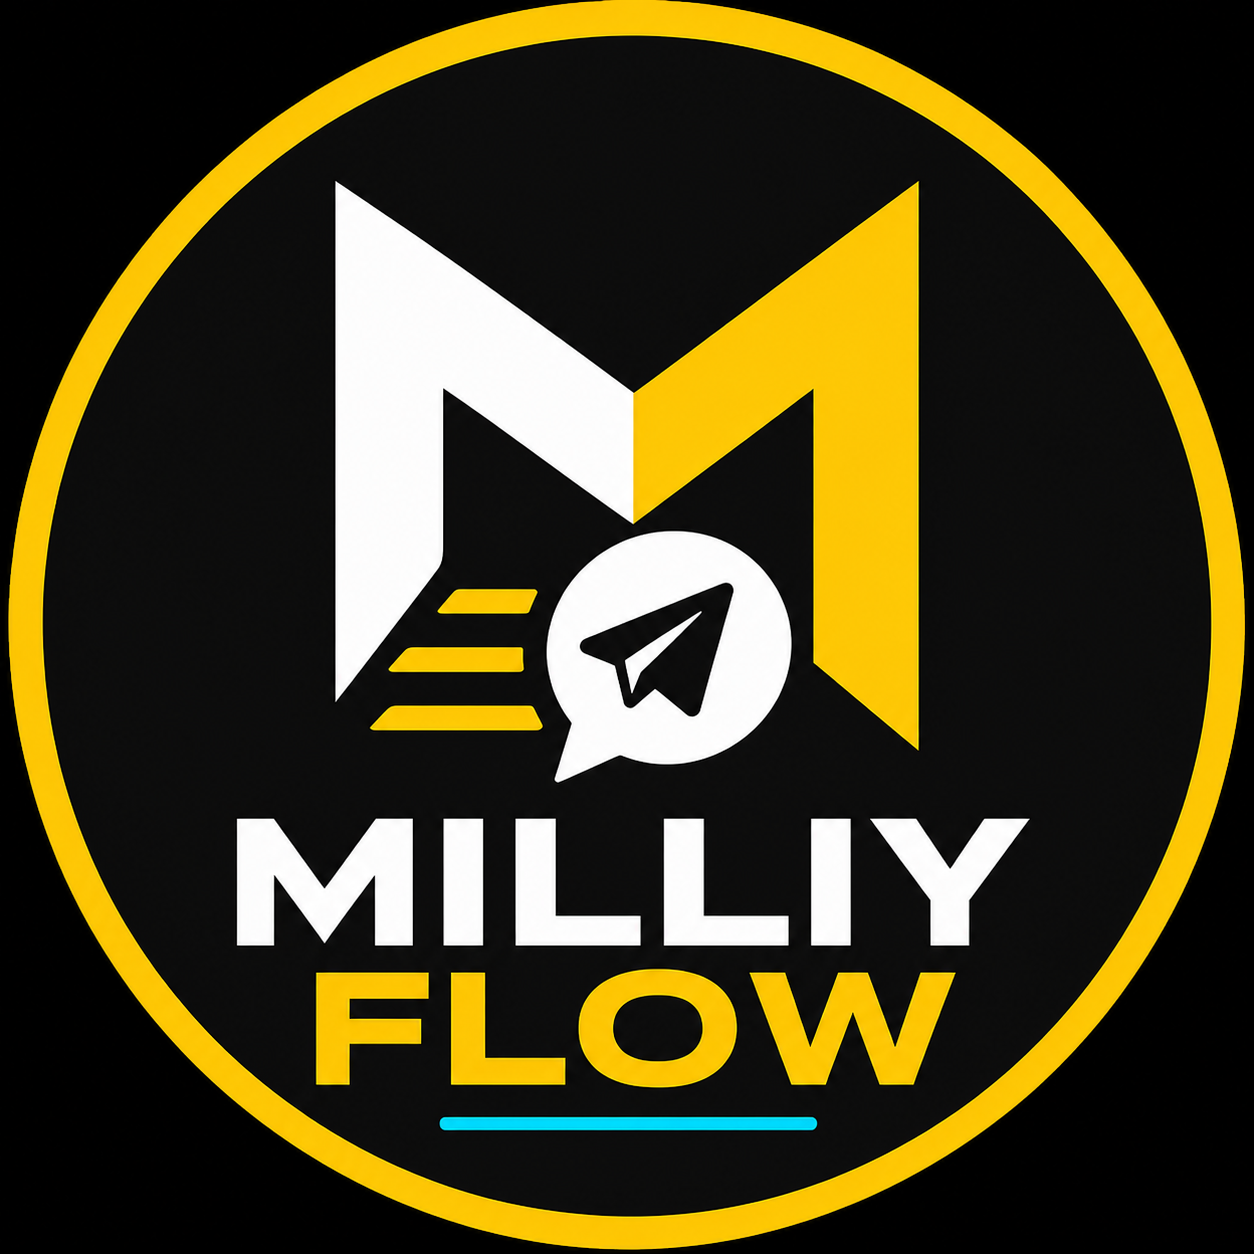
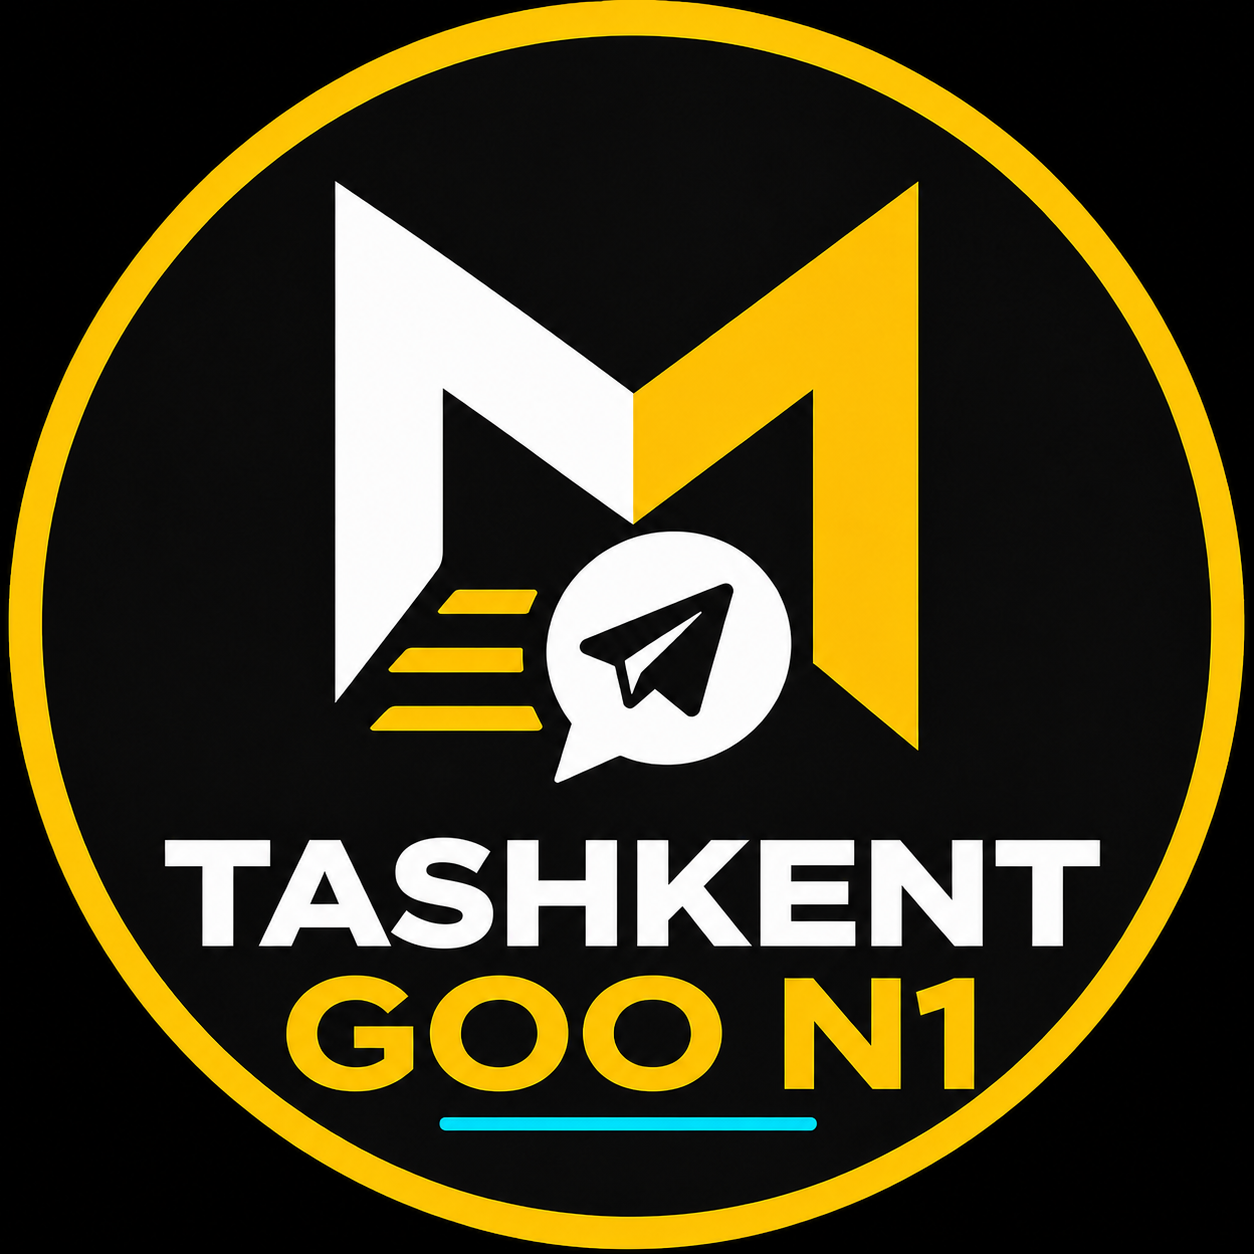
Rebrand bot as Tashkent Goo N1

Changed region(s): [[0.1244, 0.6531, 0.8708, 0.9019], [0.4665, 0.9952, 0.5287, 1.0]]

diff --git a/config.py b/config.py
@@ -45,7 +45,7 @@ BROADCAST_WORKER_ENABLED = os.getenv("BROADCAST_WORKER_ENABLED", "true").strip()
 BROADCAST_WORKER_POLL_SECONDS = max(0.2, float(os.getenv("BROADCAST_WORKER_POLL_SECONDS", "1")))
 BROADCAST_LEASE_SECONDS = max(60, int(os.getenv("BROADCAST_LEASE_SECONDS", "180")))
 SUBSCRIPTION_DAYS = int(os.getenv("SUBSCRIPTION_DAYS", "30"))
-BOT_BRAND = os.getenv("BOT_BRAND", "Milliy Flow | Авто хабарчи").strip()
+BOT_BRAND = os.getenv("BOT_BRAND", "Tashkent Goo N1 | Авто хабарчи").strip()
 # Railway'da oldingi nom saqlanib qolgan bo'lsa ham, foydalanuvchiga yangi brend ko'rinadi.
 if BOT_BRAND in {
     "Auto xabarchi N1 bot",
@@ -53,8 +53,10 @@ if BOT_BRAND in {
     "Авто хабарчи N1",
     "XabarFlow",
     "XabarFlow | Авто хабарчи",
+    "Milliy Flow",
+    "Milliy Flow | Авто хабарчи",
 }:
-    BOT_BRAND = "Milliy Flow | Авто хабарчи"
+    BOT_BRAND = "Tashkent Goo N1 | Авто хабарчи"
 SUBSCRIPTION_PRICE = os.getenv("SUBSCRIPTION_PRICE", "30 000 сўм")
 PAYMENT_CARD = os.getenv("PAYMENT_CARD", "5614 6824 1042 4388")
 PAYMENT_OWNER = os.getenv("PAYMENT_OWNER", "R.M")

diff --git a/keyboards.py b/keyboards.py
@@ -349,7 +349,7 @@ def subscription_offer_kb(bot_username: str) -> InlineKeyboardMarkup:
 
 def subscriber_thanks_kb(bot_username: str) -> InlineKeyboardMarkup:
     bot_url = f"https://t.me/{bot_username}"
-    share_text = quote("Milliy Flow — гуруҳларга автоматик хабар юбориш учун қулай бот.")
+    share_text = quote("Tashkent Goo N1 — гуруҳларга автоматик хабар юбориш учун қулай бот.")
     kb = InlineKeyboardBuilder()
     kb.button(text="📤 Дўстларга улашиш", url=f"https://t.me/share/url?url={quote(bot_url)}&text={share_text}")
     return kb.as_markup()
